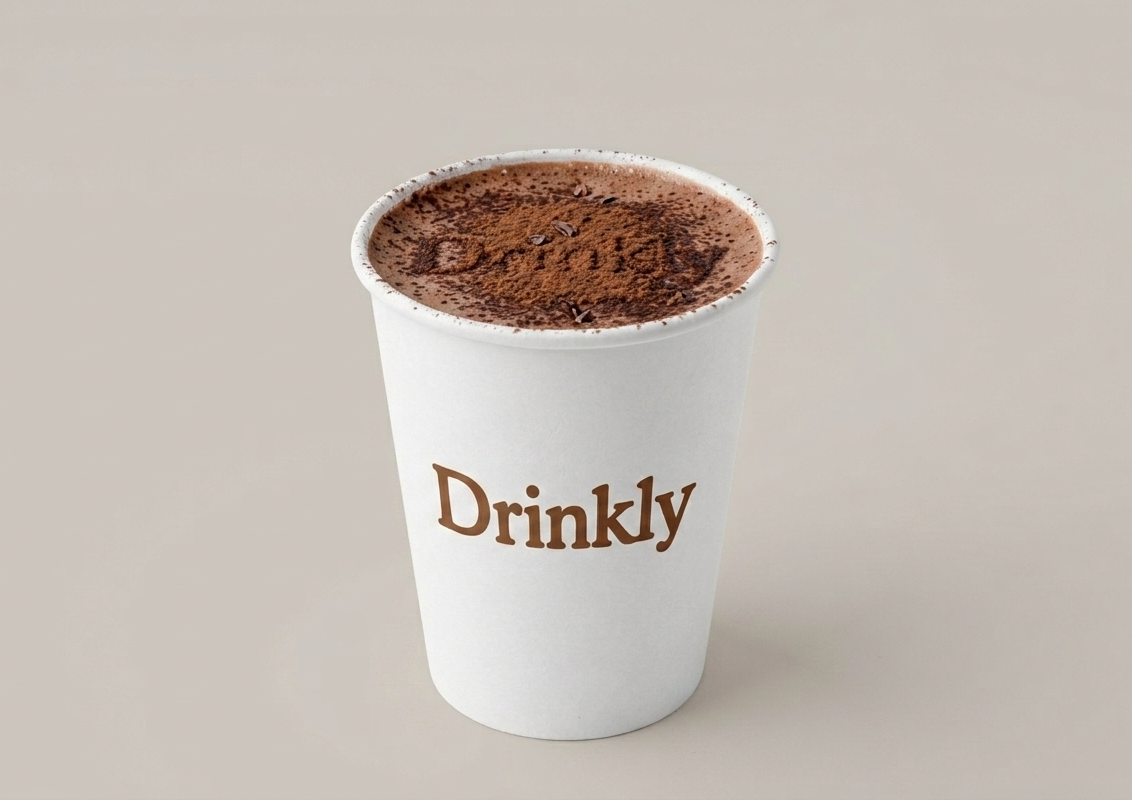
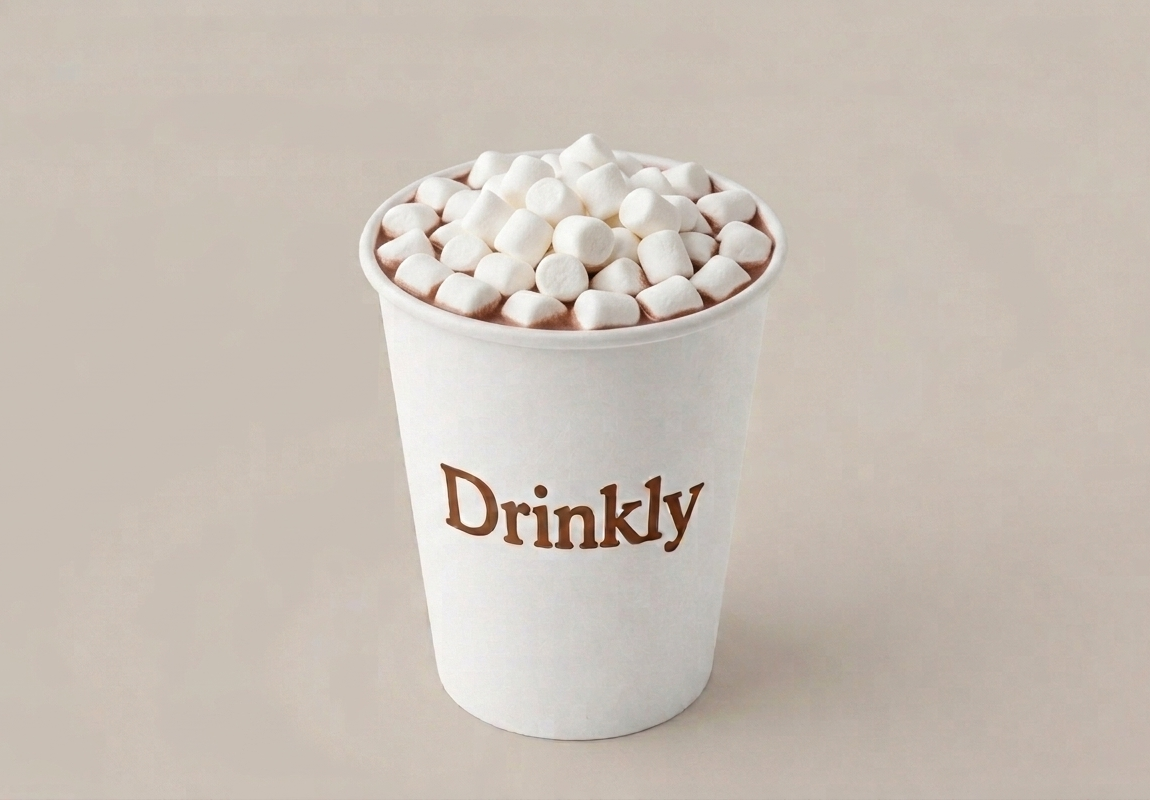
Add project

Changed region(s): [[0.3092, 0.1562, 0.7111, 0.4375], [0.4638, 0.5938, 0.6184, 0.6875], [0.371, 0.5938, 0.4019, 0.6562]]

diff --git a/src/data/menuData.js b/src/data/menuData.js
@@ -405,7 +405,7 @@ export const drinks = [
     name: "Какао",
     price: 6.5,
     volume: 0.3,
-    description: "Ароматный какао с молоком",
+    description: "Ароматный какао с молоком и маршмэллоу",
     image: "/img/cocoa.png",
     category: "coffee",
     composition: "Какао-порошок, молоко, сахар",
